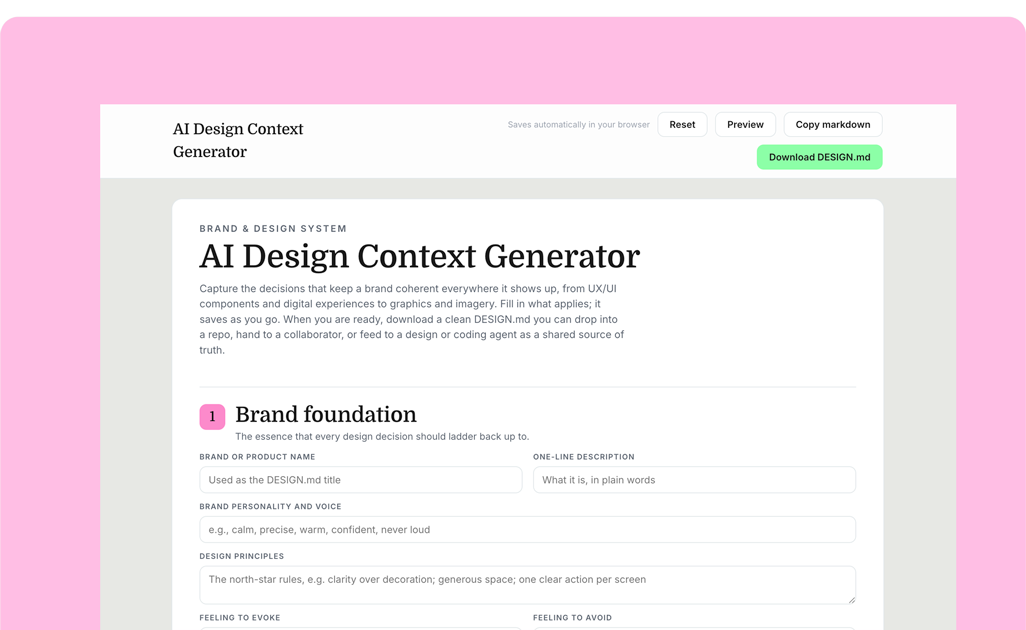
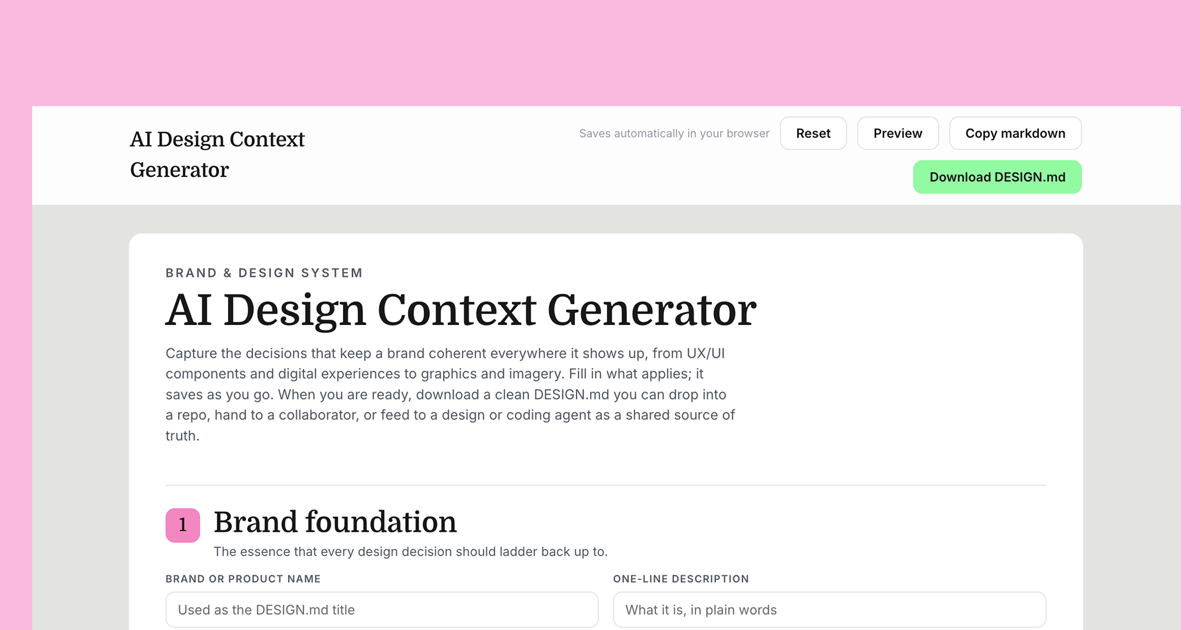
updated social preview image

diff --git a/index.html b/index.html
@@ -10,12 +10,12 @@
     />
     <meta
       property="og:image"
-      content="https://designmd-generator.pages.dev/assets/social-preview.png?v=4"
+      content="https://designmd-generator.pages.dev/assets/social-preview.png"
     />
 
     <meta
       property="og:image:secure_url"
-      content="https://designmd-generator.pages.dev/assets/social-preview.png?v=4"
+      content="https://designmd-generator.pages.dev/assets/social-preview.png"
     />
 
     <meta property="og:image:type" content="image/png" />
@@ -35,7 +35,7 @@
 
     <meta
       name="twitter:image"
-      content="https://designmd-generator.pages.dev/assets/social-preview.png?v=4"
+      content="https://designmd-generator.pages.dev/assets/social-preview.png"
     />
 
     <meta
